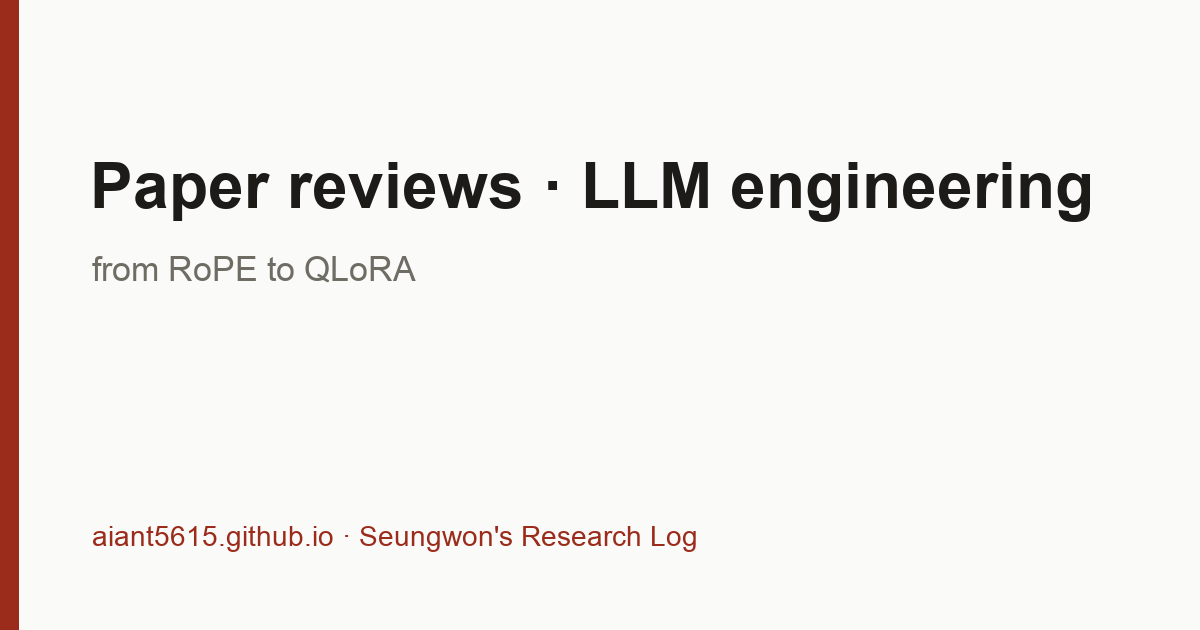
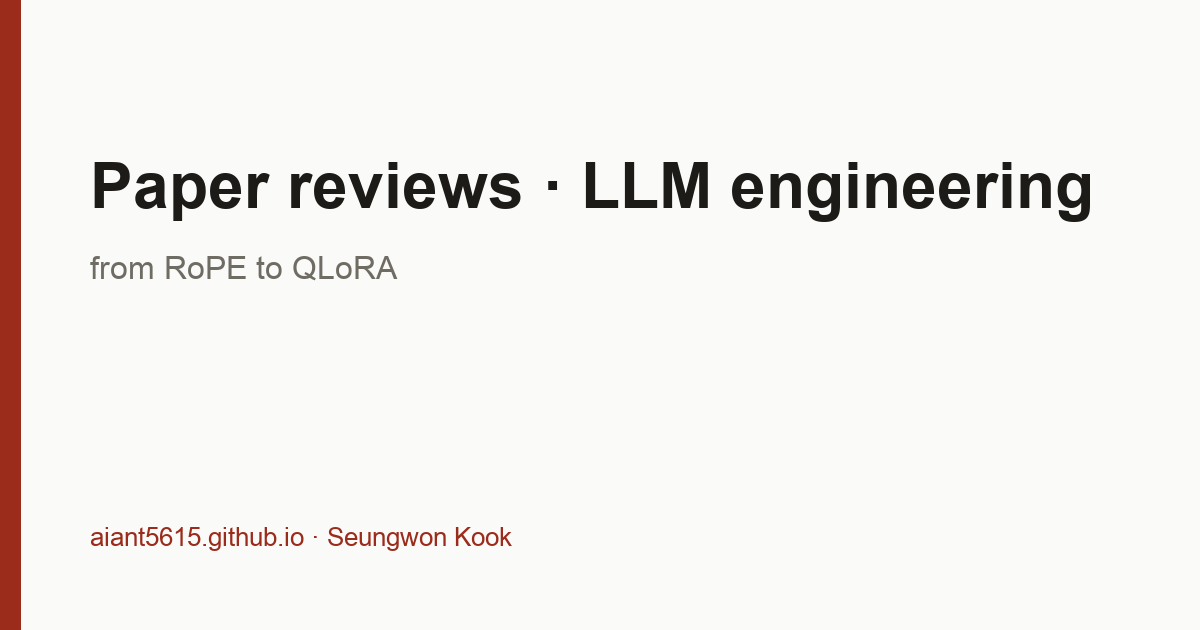
Site title: Seungwon Kook; regenerate social images

Changed region(s): [[0.0617, 0.8143, 0.5858, 0.8746], [0.0617, 0.3921, 0.3392, 0.4524]]

diff --git a/README.md b/README.md
@@ -1,4 +1,4 @@
-# Seungwon's Research Log
+# Seungwon Kook — research site
 
 A GitHub Pages site for tracking grad school life. https://aiant5615.github.io
 
